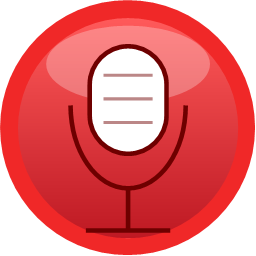
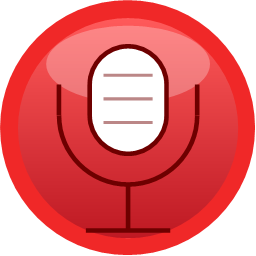
fix(IconForge): yoke now mirrors the head capsule (equidistant offset)
The previous fix made the U-arc connect cleanly to the stem, but the
yoke was still a half-ELLIPSE while the head is a stadium / pill
(rectangle with semicircular caps). The two shapes shared no
construction logic, so the gap between yoke and head varied: tightest
at mid-head, widest under the chin.

Re-derive the yoke as the *offset capsule outline* of the head's
lower half:
  - two vertical arms parallel to the head's straight sides at
    constant horizontal distance `gap`,
  - a semicircle concentric with the head's bottom semicircle,
    radius = headW/2 + gap.
That guarantees a constant gap to the head at every point and makes
the yoke read as a natural extension of the same geometric idiom
(rectangle + arc) the head is built from.

Variants A (Classic) and D (REC) regenerate with a visibly more
harmonious stand. B (Studio, no yoke) and C (speech bubble, no mic)
are unaffected.

Changed region(s): [[0.2188, 0.3125, 0.7812, 0.75]]

diff --git a/tools/IconForge/Program.cs b/tools/IconForge/Program.cs
@@ -193,27 +193,35 @@ static void DrawMicrophone(Graphics g, int size, Color body, Color outline, floa
 
     using (var pen = new Pen(outline, size * 0.018f))
     {
-        // Yoke (U-shape) that cradles the head. We draw the BOTTOM half of an ellipse
-        // (sweep 0..180), so its two visible endpoints — the "arm tops" — sit at the
-        // ellipse's vertical midline, and the lowest point of the U is at the rect's
-        // bottom edge.
+        // Yoke: an outline equidistant from the head capsule.
         //
-        // Geometry goal:
-        //   - arms reach up alongside the head to roughly mid-head height,
-        //   - bottom of the U sits just below the head,
-        //   - stem starts EXACTLY at the U's lowest point (no visual overlap).
-        var yokeWidth      = headW * 1.5f;
-        var armsTopY       = headY + headH * 0.55f;          // arms reach mid-head
-        var yokeBottomY    = headY + headH + headW * 0.45f;  // U bottom, just under head
-        var yokeHalfHeight = yokeBottomY - armsTopY;
-        var yokeRect = new RectangleF(
-            cx - yokeWidth / 2f,
-            armsTopY - yokeHalfHeight,                       // ellipse rect extends above
-            yokeWidth,
-            yokeHalfHeight * 2f);                            // only the bottom half is drawn
-        g.DrawArc(pen, yokeRect, 0, 180);
+        // The head is a stadium / pill: vertical sides between two semicircles of radius
+        // headW/2. The offset capsule at distance `gap` is the same shape with radius
+        // (headW/2 + gap), so its bottom-half outline becomes:
+        //   - two vertical arms parallel to the head's straight sides,
+        //   - a semicircle concentric with the head's bottom semicircle.
+        //
+        // That makes the gap between yoke and head identical at every point — what the
+        // user asked for.
+        var gap               = headW * 0.40f;
+        var yokeRadius        = headW / 2f + gap;
+        var headBottomCenterY = headY + headH - headW / 2f;     // center of head's bottom semicircle
+        var armsTopY          = headY + headW / 2f;             // top of head's straight side
+        var yokeBottomY       = headBottomCenterY + yokeRadius; // lowest point of the semicircle
 
-        // Stem starts at the U's bottom and runs straight down to the base bar.
+        // Two vertical arms.
+        g.DrawLine(pen, cx - yokeRadius, armsTopY, cx - yokeRadius, headBottomCenterY);
+        g.DrawLine(pen, cx + yokeRadius, armsTopY, cx + yokeRadius, headBottomCenterY);
+
+        // Bottom semicircle (concentric with the head's bottom semicircle, radius yokeRadius).
+        var arcRect = new RectangleF(
+            cx - yokeRadius,
+            headBottomCenterY - yokeRadius,
+            yokeRadius * 2f,
+            yokeRadius * 2f);
+        g.DrawArc(pen, arcRect, 0, 180);
+
+        // Stem starts exactly at the semicircle's bottom; base bar below.
         var stemBottomY = size * 0.90f;
         g.DrawLine(pen, cx, yokeBottomY, cx, stemBottomY);
         g.DrawLine(pen, cx - headW * 0.55f, stemBottomY, cx + headW * 0.55f, stemBottomY);